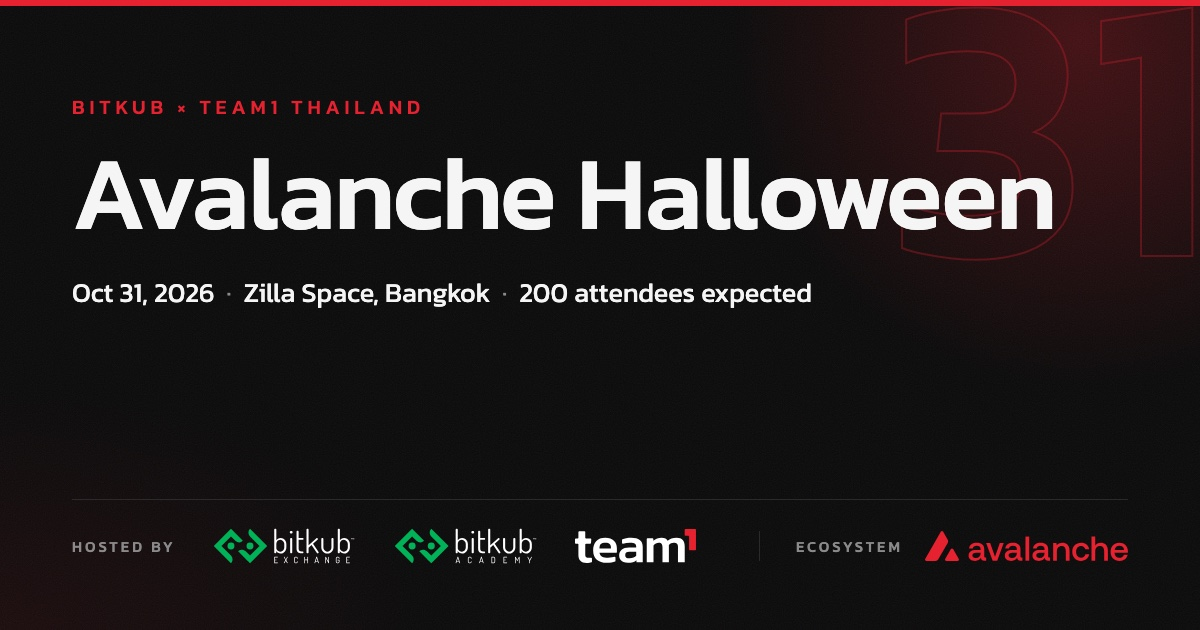
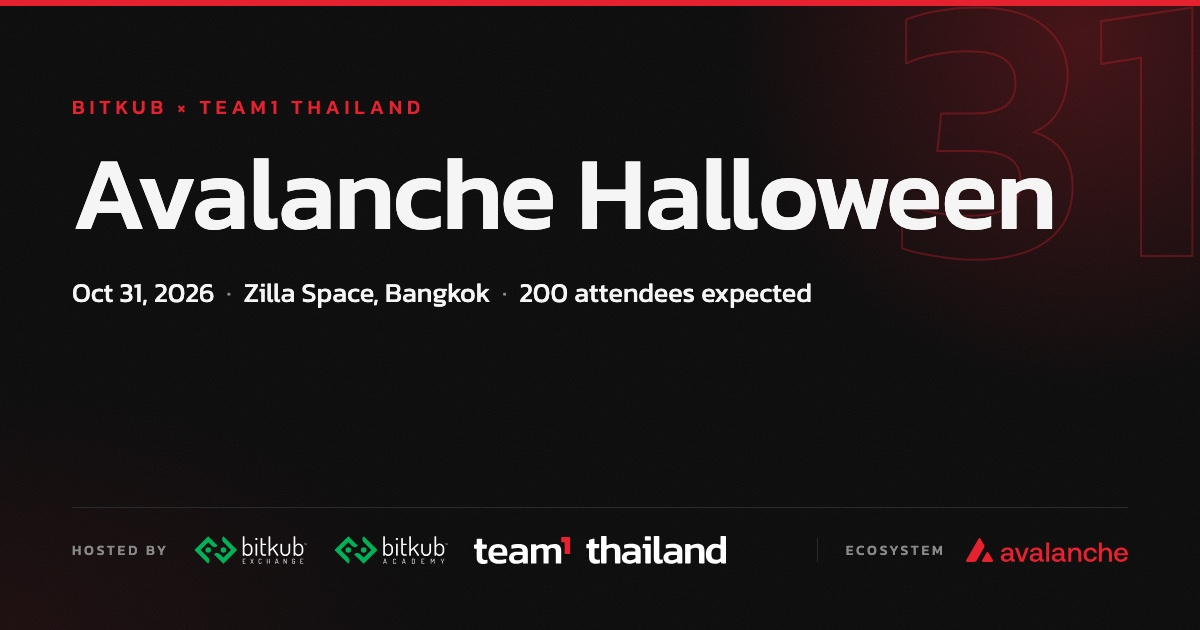
halloween: team1 Thailand chapter lockup in place of the plain team1 mark
Host row, sticky bar, footer and share image now carry the team1 Thailand
horizontal lockup. The stacked version is kept in assets, unused; PNG
exports parked untracked. Plain team1.svg removed.

diff --git a/public/halloween/index.html b/public/halloween/index.html
@@ -65,7 +65,8 @@
   #topbar { position: fixed; top: 0; left: 0; right: 0; z-index: 50; background: rgba(10,10,10,.92); backdrop-filter: blur(10px); -webkit-backdrop-filter: blur(10px); border-bottom: 1px solid var(--line); transform: translateY(-100%); transition: transform .25s ease; }
   #topbar.on { transform: translateY(0); }
   #topbar .wrap { display: flex; align-items: center; justify-content: space-between; gap: 12px; height: 58px; }
-  #topbar .t { font-family: var(--display); font-weight: 500; font-size: 14px; white-space: nowrap; overflow: hidden; text-overflow: ellipsis; }
+  #topbar .t { font-family: var(--display); font-weight: 500; font-size: 14px; white-space: nowrap; overflow: hidden; text-overflow: ellipsis; display: flex; align-items: center; gap: 14px; min-width: 0; }
+  #topbar .t img { height: 18px; width: auto; flex: none; }
   #topbar .t span { color: var(--red); }
   #topbar .btn { padding: 9px 16px; font-size: 14px; white-space: nowrap; flex: none; }
 
@@ -87,7 +88,7 @@
   .hosts { display: flex; align-items: center; gap: 18px 30px; flex-wrap: wrap; margin-top: 40px; padding-top: 22px; border-top: 1px solid var(--line); }
   .hosts span { color: var(--dim); font-size: 12px; letter-spacing: .18em; text-transform: uppercase; font-weight: 500; }
   .hosts img { height: 30px; width: auto; }
-  .hosts img[alt="team1"] { height: 25px; }
+  .hosts img[alt="team1 Thailand"] { height: 24px; }
   .hosts img[alt="Avalanche"] { height: 22px; }
   /* Avalanche is the ecosystem, not a host: its own labelled slot, pushed to the far end of the row */
   .hosts .eco { display: flex; align-items: center; gap: 18px; margin-left: auto; padding-left: 30px; border-left: 1px solid var(--line); }
@@ -200,7 +201,7 @@
 
 <div id="topbar" aria-hidden="true">
   <div class="wrap">
-    <div class="t">Avalanche Halloween <span>Bitkub × team1 Thailand</span></div>
+    <div class="t"><img src="/halloween/assets/team1-thailand.svg" alt="team1 Thailand" width="1870" height="208" />Avalanche Halloween <span>Bitkub × team1 Thailand</span></div>
     <a class="btn" href="#packages" tabindex="-1">Become a partner</a>
   </div>
 </div>
@@ -220,7 +221,7 @@
       <span>Hosted by</span>
       <img src="/halloween/assets/bitkub.svg" alt="Bitkub" width="600" height="165" />
       <img src="/halloween/assets/bitkub-academy.svg" alt="Bitkub Academy" width="600" height="165" />
-      <img src="/halloween/assets/team1.svg" alt="team1" width="1027" height="289" />
+      <img src="/halloween/assets/team1-thailand.svg" alt="team1 Thailand" width="1870" height="208" />
       <span class="eco"><span>Ecosystem</span><img src="/halloween/assets/avalanche.svg" alt="Avalanche" width="1835" height="271" /></span>
     </div>
   </div>
@@ -405,7 +406,10 @@
 </main>
 
 <footer class="foot">
-  <div class="wrap"><b>Bitkub × team1 Thailand</b> · Avalanche</div>
+  <div class="wrap">
+    <img src="/halloween/assets/team1-thailand.svg" alt="team1 Thailand" width="1870" height="208" style="height:26px; width:auto; margin:0 auto 14px" />
+    <div><b>Bitkub × team1 Thailand</b> · Avalanche</div>
+  </div>
 </footer>
 
 <script>

diff --git a/public/halloween/README.md b/public/halloween/README.md
@@ -26,7 +26,7 @@ X and Telegram cache previews per URL; after replacing the image, re-check with 
 
 - `assets/avalanche.svg` is Ava Labs' `AvalancheLogo_Horizontal_1C_Red`, the current one-colour wordmark. It sits in its own "Ecosystem" slot in the hero row and on the share image, deliberately outside "Hosted by": Avalanche is not a host of the event and must not be presented as one.
 - `assets/bitkub.svg` and `assets/bitkub-academy.svg` are the "02" horizontal variants from Bitkub's packs (green mark, white wordmark), the ones for dark backgrounds. The full packs, including the light-background "01" and all-white "03" variants and the vertical lockups, are parked untracked in `team1kickoff-raw/halloween/logos/`.
-- `assets/team1.svg` is `Team1_MAIN_WHITE` from `avalancheteam1/common`, the wordmark the brand guide specifies for dark backgrounds.
+- `assets/team1-thailand.svg` is the team1 Thailand chapter lockup (horizontal, red mark and white text), used in the host row, the sticky bar, the footer and the share image. `assets/team1-thailand-stacked.svg` is the vertical version, unused for now. The PNG exports are parked in `team1kickoff-raw/halloween/logos/team1-thailand/`.
 
 ## Paths
 
